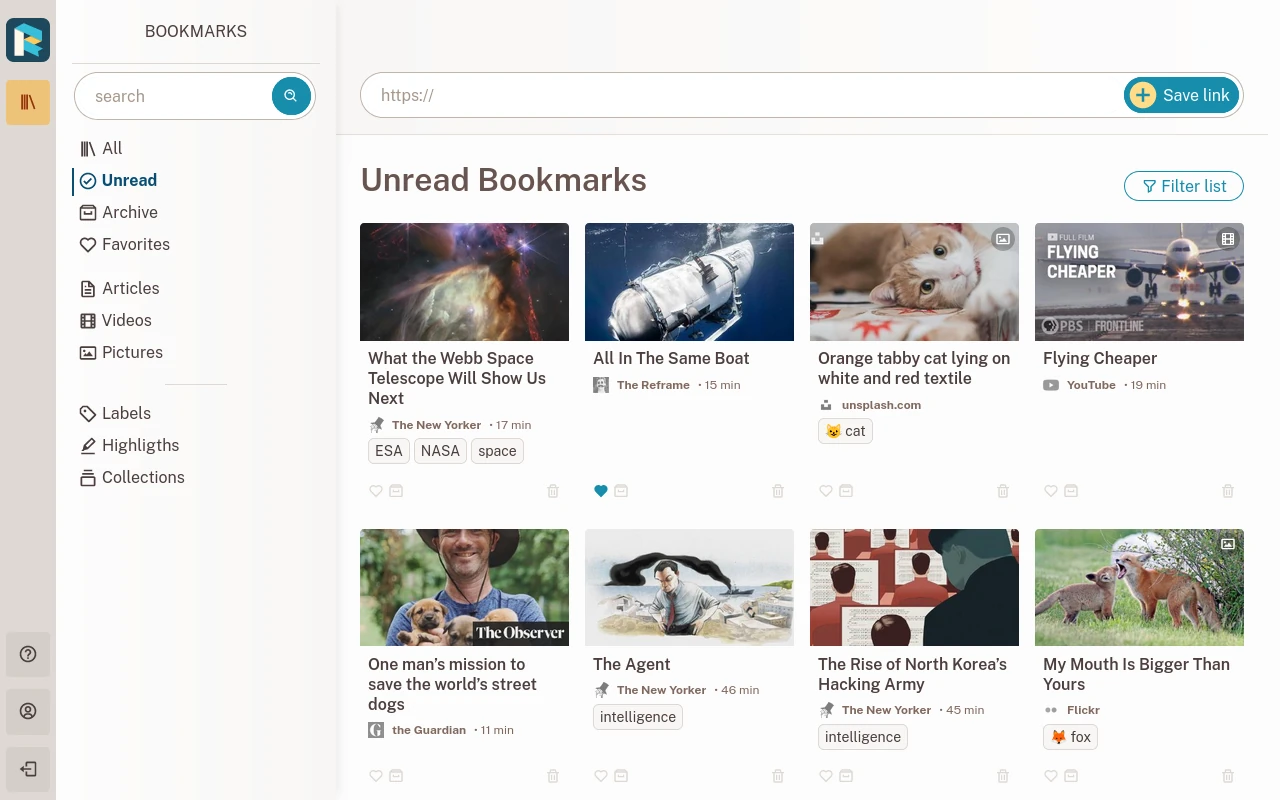
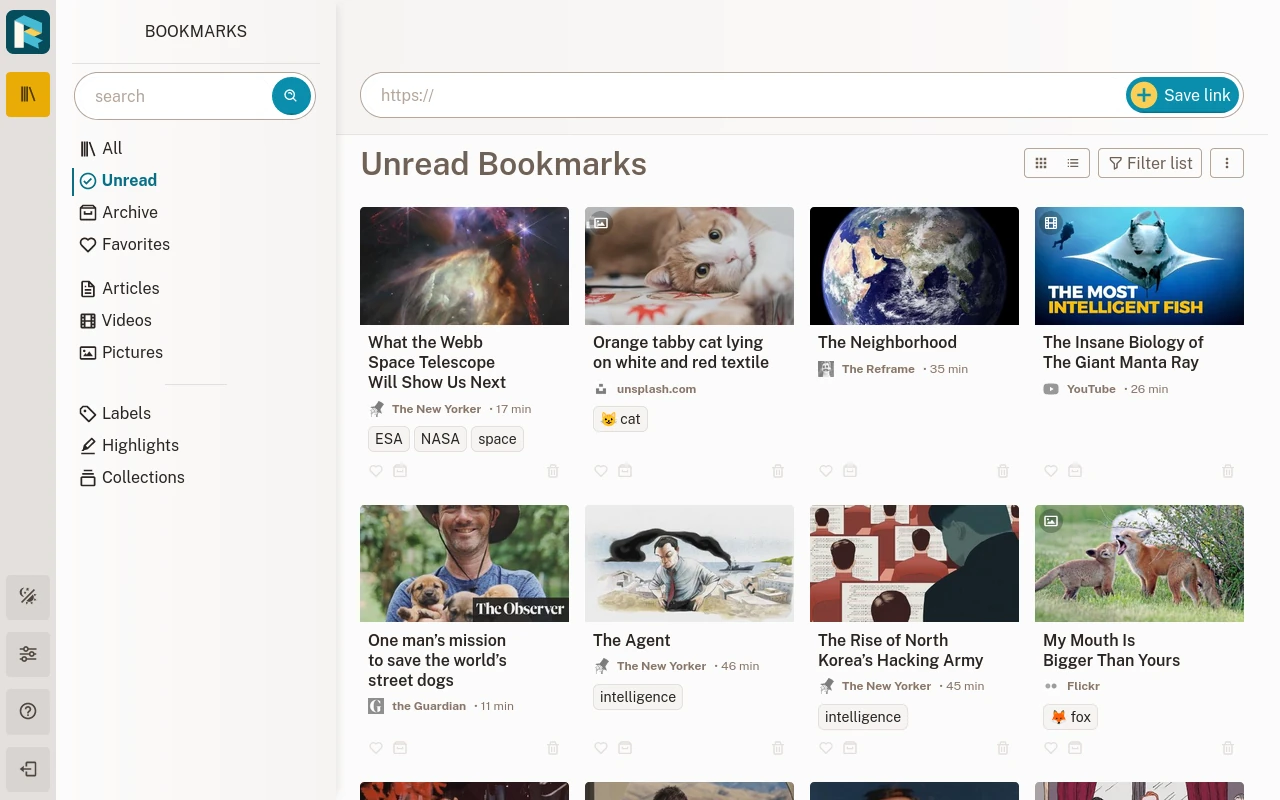
Updated documentation and screenshots

diff --git a/docs/src/fr-FR/bookmark-list.md b/docs/src/fr-FR/bookmark-list.md
@@ -71,7 +71,8 @@ Enfin, se trouvent 3 autres sections qui mènent vers des pages liées aux bookm
 
 Chaque élément de la liste des bookmarks est une carte.
 
-![Carte de bookmark](./img/bookmark-card.webp)
+![Liste des bookmarks](./img/bookmark-list.webp)
+Liste des bookmarks en grille
 
 Une carte contient:
 
@@ -89,6 +90,13 @@ Les buttons permettent d'effectuer les actions suivantes:
   Archive un bookmark (ou le retire des archives).
 - **Supprimer** \
   Marque le bookmark pour suppression (cette action peut être annulée pendant quelques secondes).
+
+### Liste compacte
+
+Si vous trouvez la liste de bookmarks sous forme de grille trop encombrée, vous pouvez changer pour une liste plus compacte contenant moins d'images. Cliquez sur le bouton près du titre pour passer à la vue compacte.
+
+![Bookmark Compact List](./img/bookmark-list-compact.webp)
+Liste compacte de bookmarks
 
 
 ## Filtrer les bookmarks {#filters}
@@ -119,13 +127,26 @@ Vous pouvez combiner les filtres suivants :
 - **Depuis**, **Jusqu'à**\
   Ces derniers filtres vous permettent de limiter les résultats par date de création des bookmarks. Par example, vous pouvez obtenir la liste des bookmarks créés pendant les 4 dernières semaines mais pas après la dernière semaine.
 
-### Search query
+### Critères de recherche
 
-The **Search**, **Title**, **Author**, **Site** and **Label** fields understand search criteria the same way:
+Les champs **Recherche**, **Titre**, **Auteur**, **Site** et **Label** comprennent les critères de recherche de la même façon :
 
-- `startled cat` will find the content with the words **playing** and **cat**
-- `"startled cat"` will find the content with the exact words **playing cat** together.
-- `cat*` will find the content with the words starting with **cat** (cat, catnip and caterpillar would be a match).
-- `-startled cat` will find the content with the word **cat** but NOT the word **startled**.
+- `startled cat` trouvera le contenu avec les mots **startled** and **cat**
+- `"startled cat"` trouvera le contenu avec la phrase exacte **startled cat** together.
+- `cat*` trouvera le contenu avec les mots commençant par **cat** (cat, catnip et caterpillar, par example).
+- `-startled cat` trouvera le contenu avec le mot **cat** mais PAS le mot **startled**.
 
 Après avoir effectué une recherche, vous pouvez l'enregistrer en tant que [collection](./collections.md) pour la rendre permanente.
+
+## Exporter et importer des bookmarks
+
+![Menu](./img/bookmark-list-menu.webp)
+Menu de la liste des bookmarks
+
+### Exporter des bookmarks
+
+Le bouton de menu près des filtres vous permet de télécharger un fichier EPUB de la liste de bookmarks affichée. Il créer un e-book contenant tous les articles organisés en chapitres.
+
+### Importer des bookmarks
+
+Dans le même menu, vous trouverez un lien [Importer des bookmarks](readeck-instance://bookmarks/import). Il vous mènera à un assistant vous permettant d'importer des liens existants depuis différentes sources.

diff --git a/docs/src/en-US/bookmark-list.md b/docs/src/en-US/bookmark-list.md
@@ -71,7 +71,8 @@ Finally, you'll see 3 more sections that take you to bookmark related pages:
 
 Each item on a list is called a Bookmark Card.
 
-![Bookmark Card Interface](./img/bookmark-card.webp)
+![Bookmark List](./img/bookmark-list.webp)
+Grid Bookmark List
 
 A card shows:
 
@@ -90,8 +91,14 @@ The action buttons perform the following:
 - **Delete** \
   This marks the bookmark for deletion (it can be canceled during a few seconds).
 
+### Compact List
 
-## Filter bookmarks {#filters}
+If you find the bookmark grid view too busy, you can switch to a more compact list with less images. Click on the button next to the title to switch from the grid view to the compact view.
+
+![Bookmark Compact List](./img/bookmark-list-compact.webp)
+Compact Bookmark List
+
+## Filter Bookmarks {#filters}
 
 On the bookmark list, you can filter your results based on one or several criteria. Click on the button "Filter list" next to the page title to open the filtering form.
 
@@ -123,10 +130,23 @@ You can combine the following filters:
 
 The **Search**, **Title**, **Author**, **Site** and **Label** fields understand search criteria the same way:
 
-- `startled cat` will find the content with the words **playing** and **cat**
-- `"startled cat"` will find the content with the exact words **playing cat** together.
+- `startled cat` will find the content with the words **startled** and **cat**
+- `"startled cat"` will find the content with the exact words **startled cat** together.
 - `cat*` will find the content with the words starting with **cat** (cat, catnip and caterpillar would be a match).
 - `-startled cat` will find the content with the word **cat** but NOT the word **startled**.
 
 
 After you performed a search, you can save it into a new [collection](./collections.md) to make it permanent.
+
+## Export and Import Bookmarks
+
+![Menu](./img/bookmark-list-menu.webp)
+Bookmark list menu
+
+### Export bookmarks
+
+The menu button next to the filters button let you download an EPUB file of the current list of bookmarks. It exports one e-book containing all the articles organized in chapters.
+
+### Import bookmarks
+
+In the same menu, you'll find a [Import bookmarks](readeck-instance://bookmarks/import) link. It will take you to an import wizard that lets you import your existing bookmarks from various sources.

diff --git a/docs/src/fr-FR/collections.md b/docs/src/fr-FR/collections.md
@@ -13,7 +13,7 @@ Voici quelques exemples :
 
 ## Créer une collection
 
-Pour créer une collection, rendez-vous sur la [list des collections](readeck-instance://bookmarks/collections) et cliquez sur **Créer une collection**.
+Pour créer une collection, rendez-vous sur la [liste des collections](readeck-instance://bookmarks/collections) et cliquez sur **Créer une collection**.
 
 ![Formulaire de nouvelle collection](./img/collection-new.webp)
 Le formulaire de nouvelle collection
